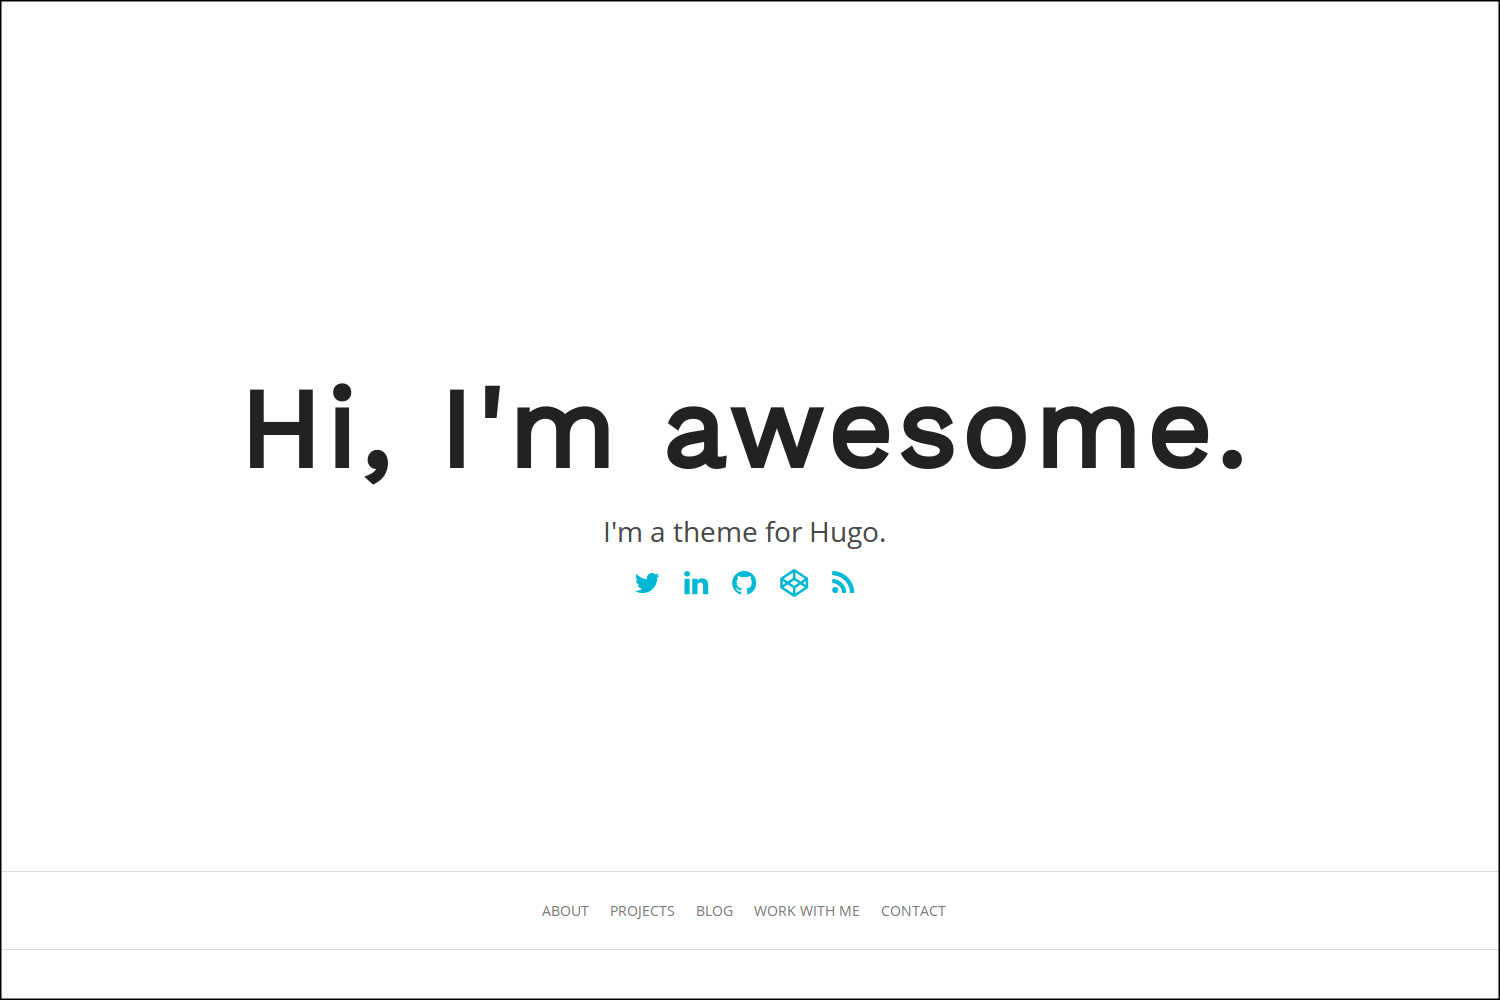
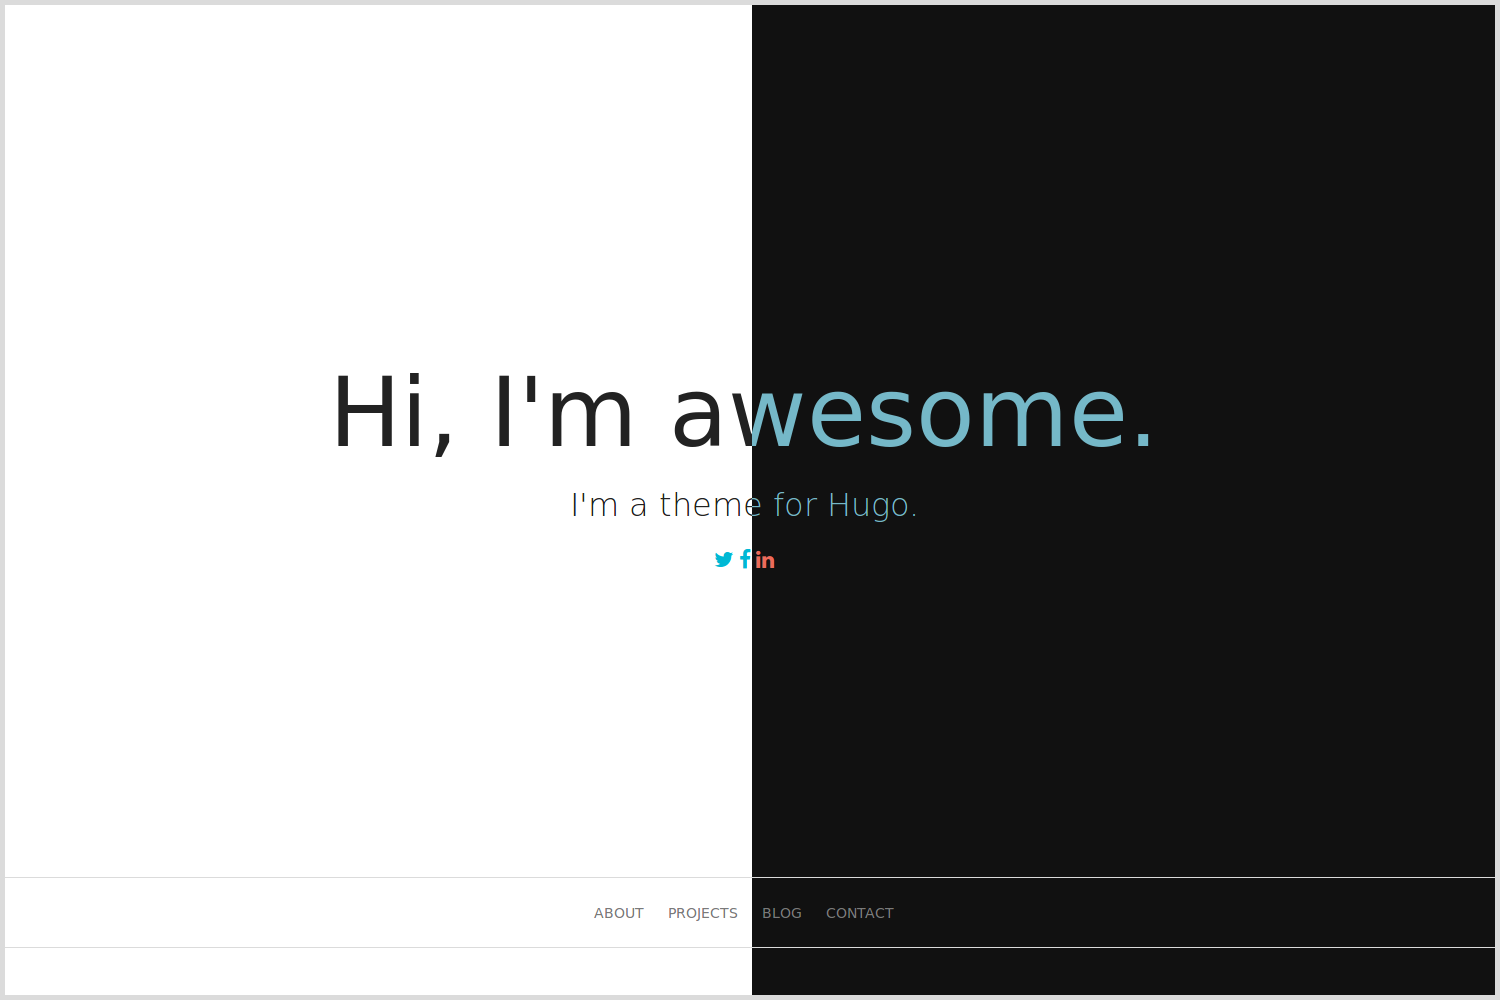
Added light and dark themes.

diff --git a/layouts/partials/header.html b/layouts/partials/header.html
@@ -50,14 +50,14 @@
 {{ if .Site.Params.cachebuster }}
 
     {{ $t := now.Unix }}
-    <link rel="stylesheet" href="/css/style.css?t={{$t}}">
+    <link rel="stylesheet" href="/css/{{ .Site.Params.theme }}-style.css?t={{$t}}">
     {{range .Site.Params.extracssfiles}}
         <link rel="stylesheet" href="{{.}}?t={{$t}}">
     {{ end }}
 
 {{ else }}
 
-    <link rel="stylesheet" href="/css/style.css">
+    <link rel="stylesheet" href="/css/{{ .Site.Params.theme }}-style.css">
     {{range .Site.Params.extracssfiles}}
         <link rel="stylesheet" href="{{.}}">
     {{end}}
